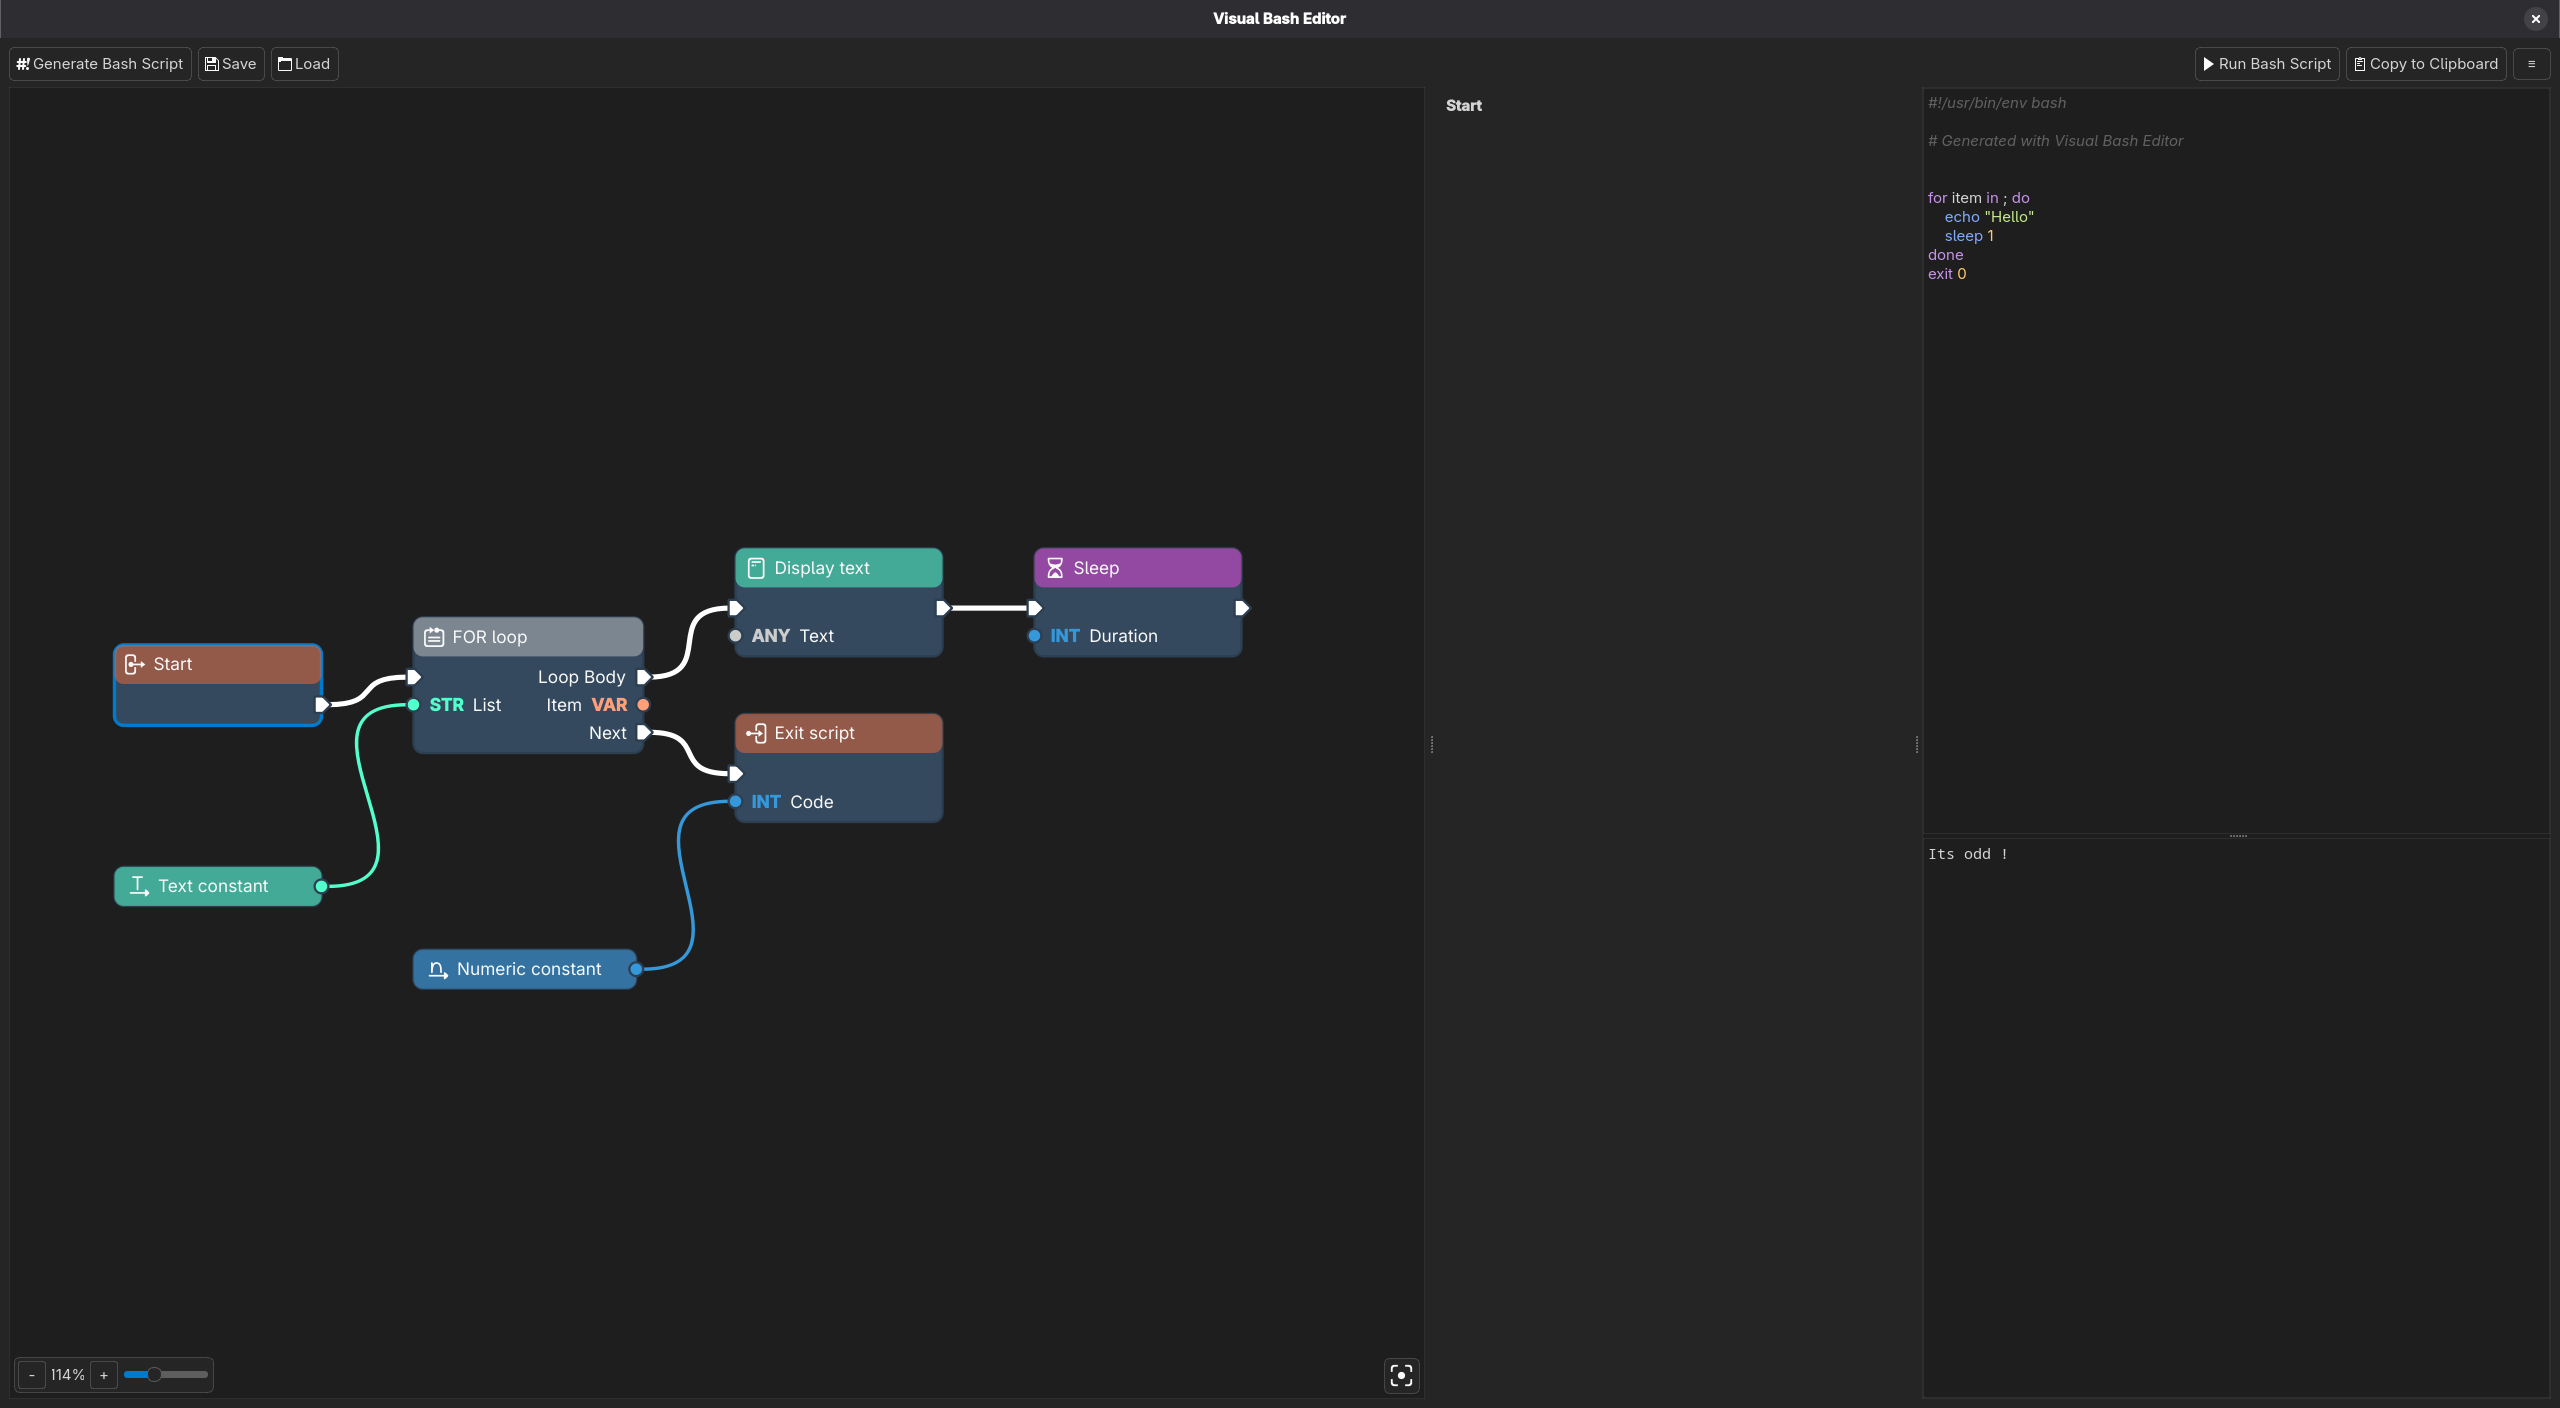
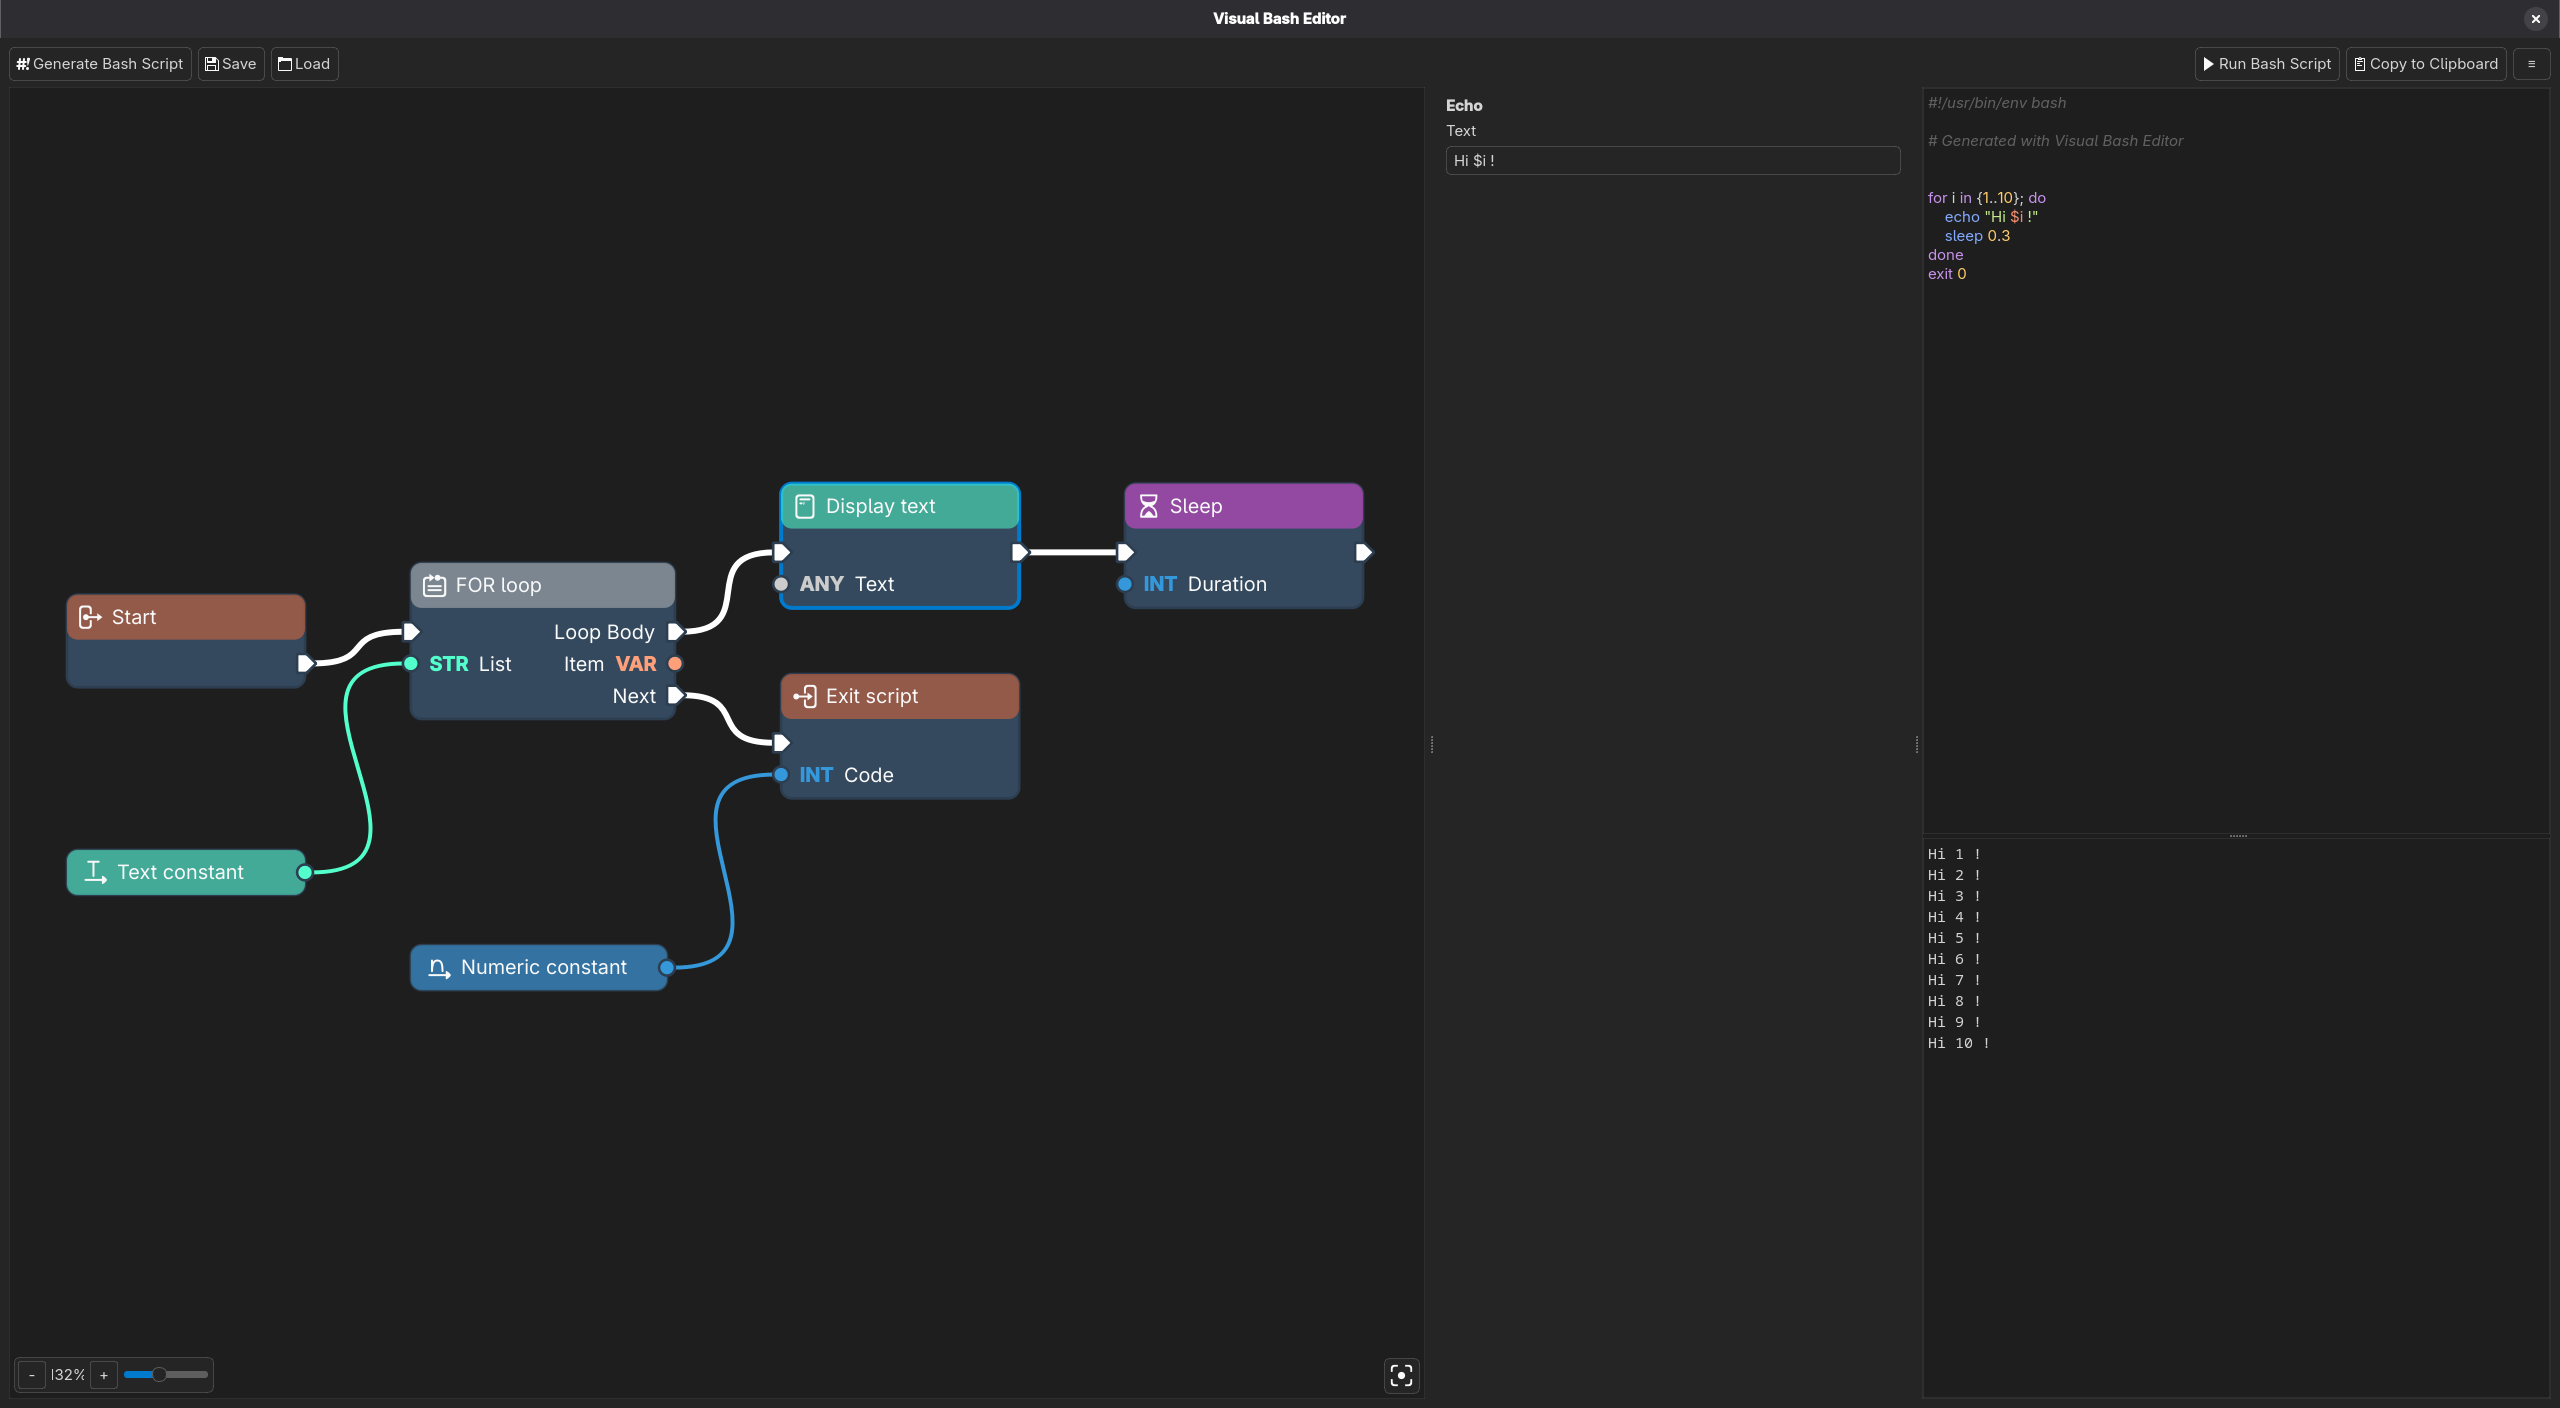
Update screenshot3 and .md

diff --git a/screenshots/Screenshots.md b/screenshots/Screenshots.md
@@ -1,0 +1,3 @@
+<img " src="https://raw.githubusercontent.com/Lluciocc/vish-utils/refs/heads/main/screenshots/screenshots1.png" />
+<img " src="https://raw.githubusercontent.com/Lluciocc/vish-utils/refs/heads/main/screenshots/screenshots2.png" />
+<img " src="https://raw.githubusercontent.com/Lluciocc/vish-utils/refs/heads/main/screenshots/screenshots3.png" />
